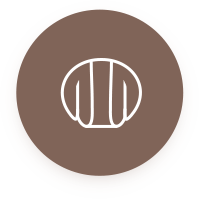
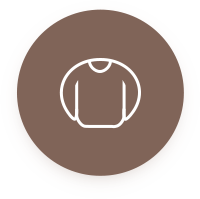
首页 旧衣服修改

diff --git a/pages/oldClothes/oldClothes.js b/pages/oldClothes/oldClothes.js
@@ -1,10 +1,29 @@
 Component({
   data: {
-
+    gender:1,    // 1男    2女
+    style:1,     // 1套衫  2开衫
+    model:1,     // 1V领  2圆领  3半高领  4樽领  5一字领
+    chest:'25',    // 胸围
+    length:'23'  // 旧衣服长度
   },
   methods: {
     changePage(){
       this.triggerEvent("changePage", { path: 2 })
+    },
+    changeGender(e){
+      this.setData({
+        gender:Number( e.currentTarget.dataset.index )
+      })
+    },
+    changeStyle(e){
+      this.setData({
+        style:Number( e.currentTarget.dataset.index )
+      })
+    },
+    changeModel(e){
+      this.setData({
+        model:Number( e.currentTarget.dataset.index )
+      })
     }
   }
 })

diff --git a/pages/index/index.js b/pages/index/index.js
@@ -79,6 +79,11 @@ Page({
   hideModal1: function () {
     this.setData({
       hideModal1: true,
+    })
+  },
+  // 显示遮罩层
+  showModal2: function () {
+    this.setData({
       hideModal2: false
     })
   },
